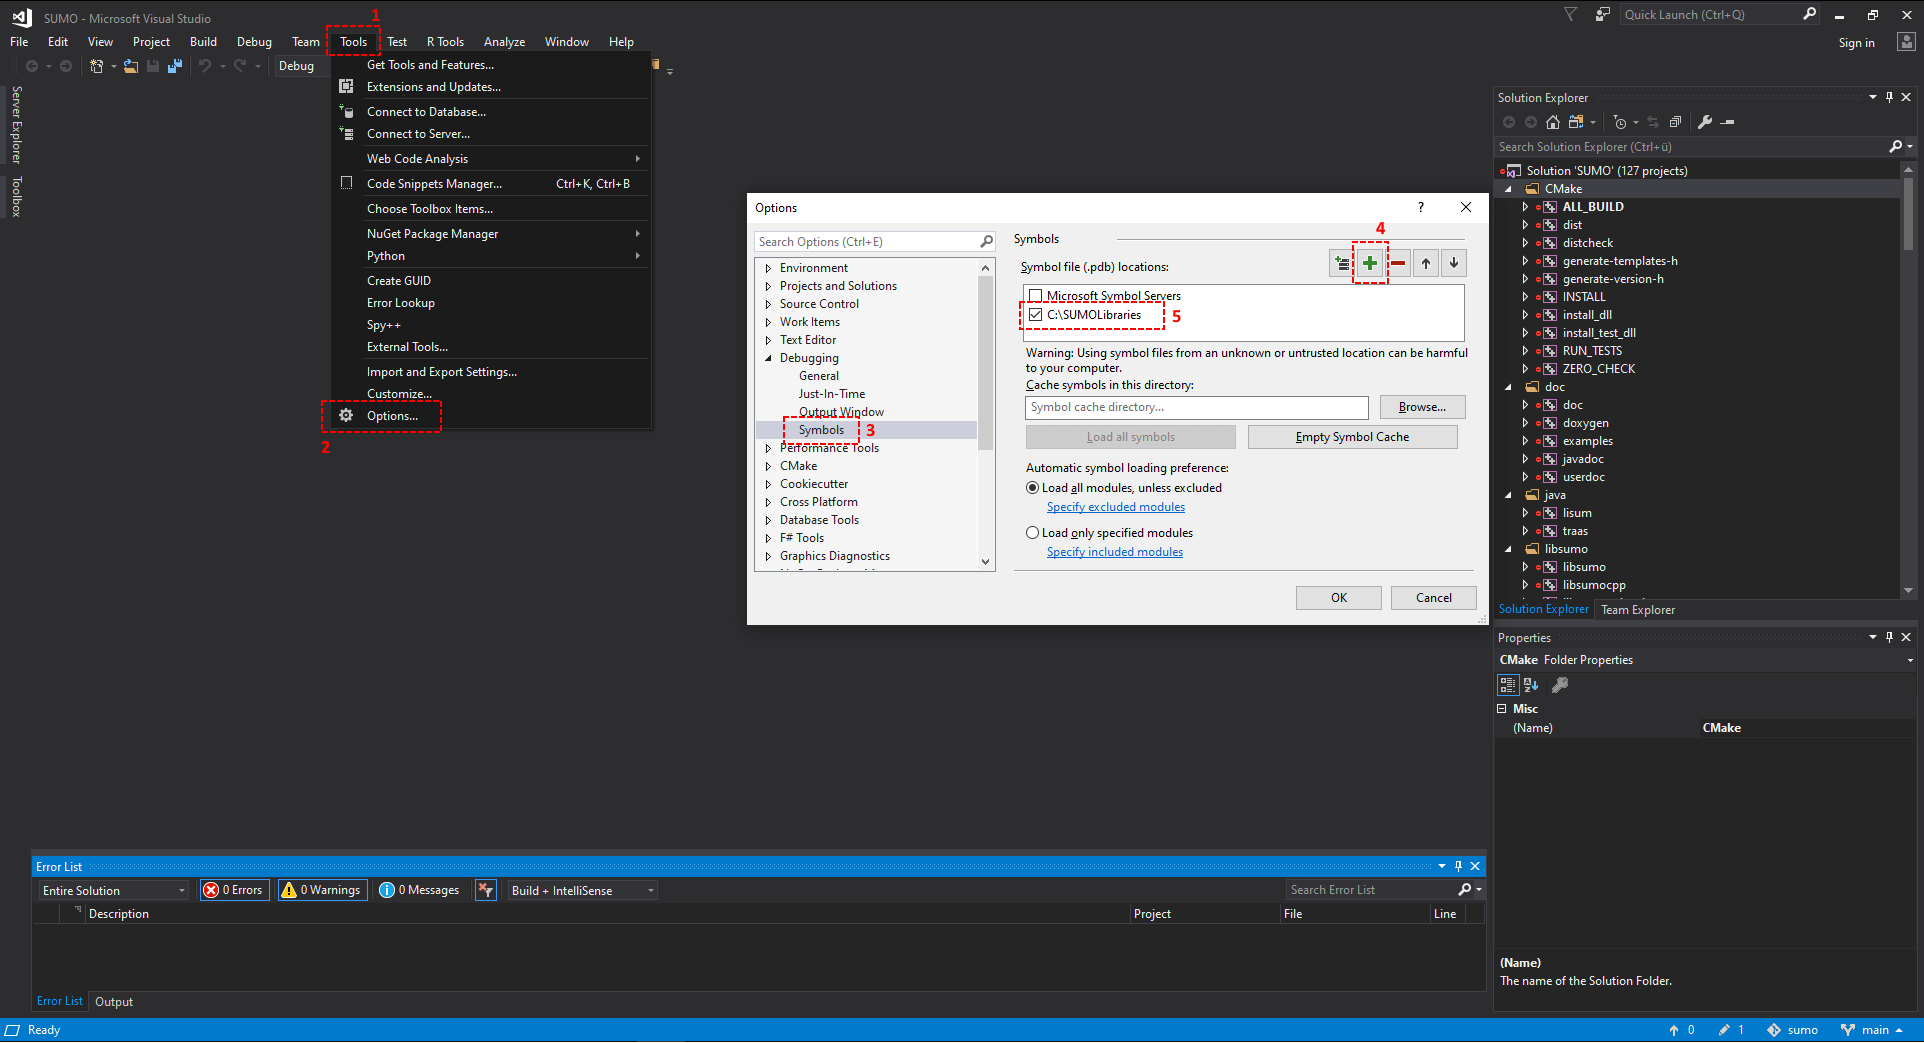
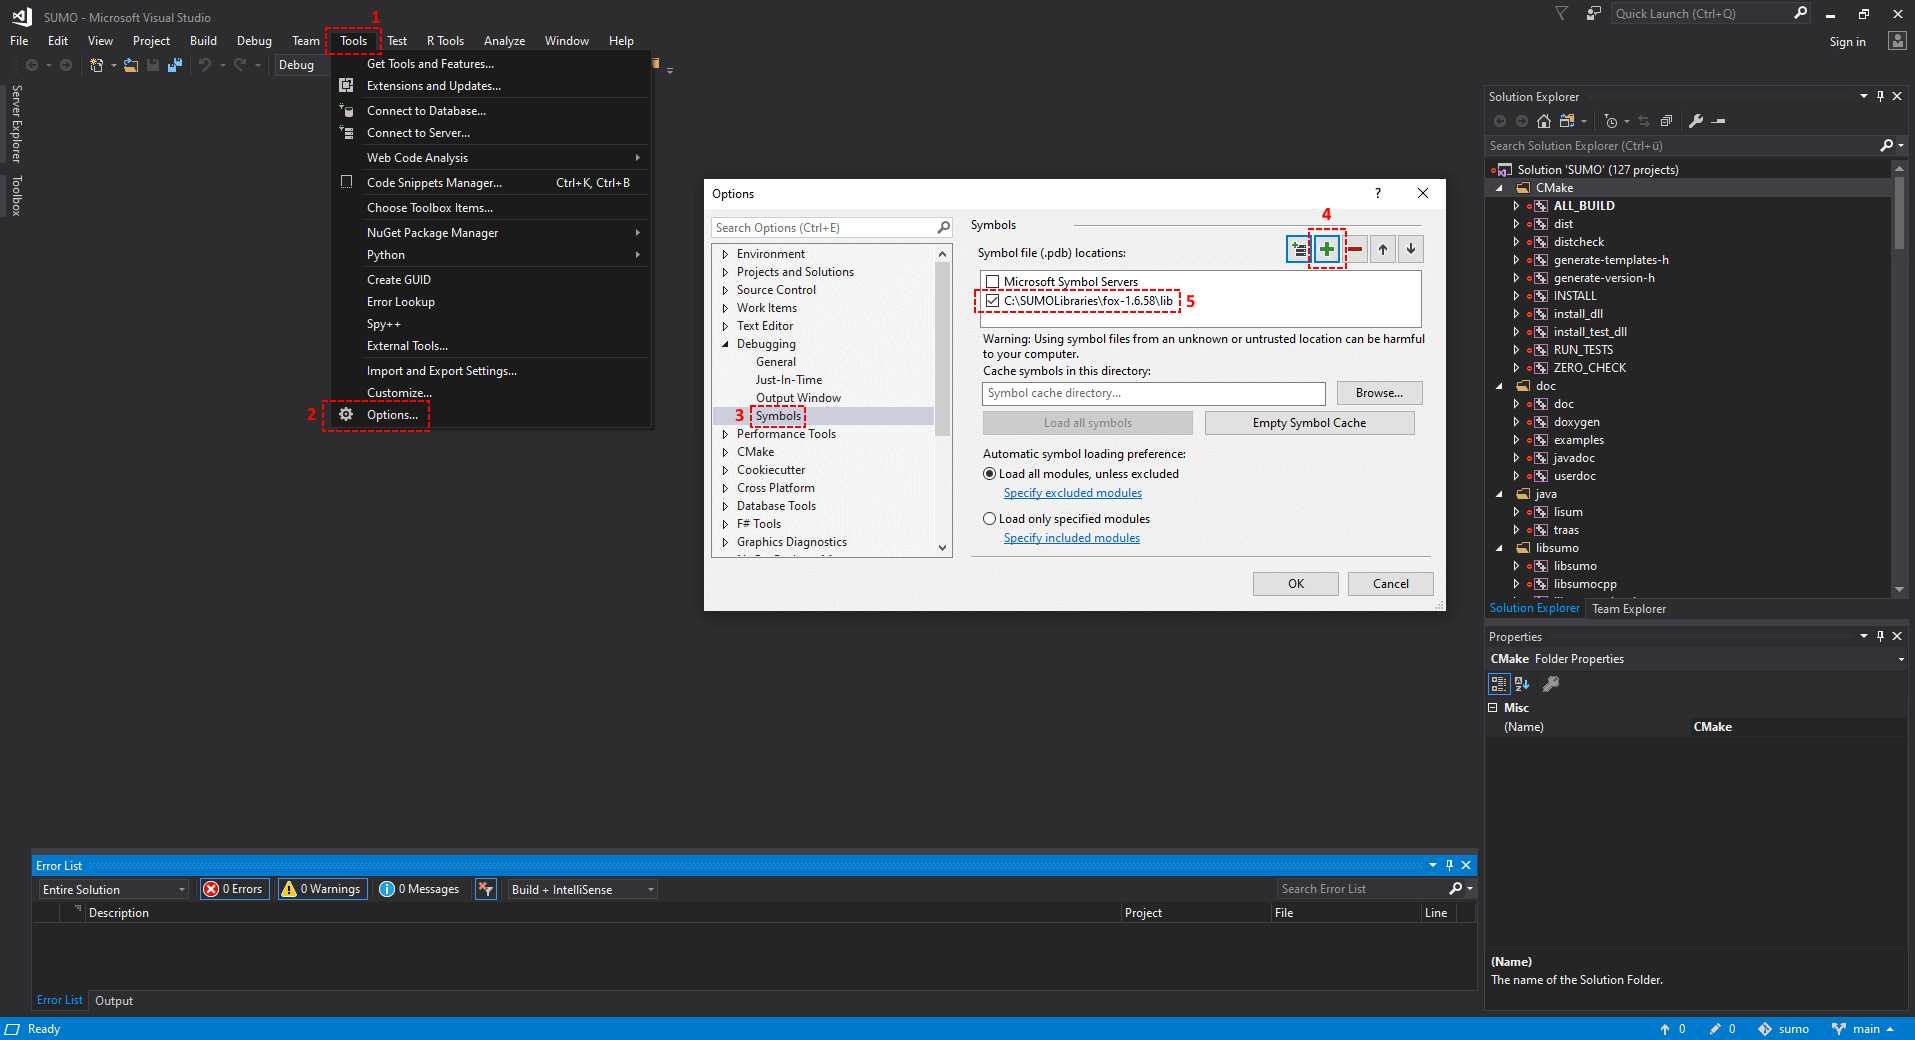
#2 rephrasing text about debugging symbols

diff --git a/docs/web/docs/Developer/Debugging.md b/docs/web/docs/Developer/Debugging.md
@@ -91,6 +91,7 @@ corresponding macro is activated).
 
 ## Debugging external libraries
 
-Debugging symbols (`.pdb` files) are available for some of the external libraries included in [SUMOLibraries](https://github.com/DLR-TS/SUMOLibraries). To use them in Visual Studio, simply add the path to SUMOLibraries to the "Symbol file locations" in the Options. Do so by going to *Tools* > *Options...* > *Debugging* > *Symbols* and adding your SUMOLibraries path as a new location (see image below).
+Debugging symbols (`.pdb` files) are available **for some** of the external libraries included in [SUMOLibraries](https://github.com/DLR-TS/SUMOLibraries). To use them in Visual Studio, simply add the path of the desired symbol to the "Symbol file locations" in the Options menu. Do so by going to *Tools* > *Options...* > *Debugging* > *Symbols* and adding the path to the `.pdb` file of the desired external library as a new location (see the example image below). The `.pdb` files are usually located in the **lib** or **bin** directory, for each library.
 
-![](../images/ExternalDebuggingSymbols.png)
+![](../images/ExternalDebuggingSymbols.png)<br>
+*Example: Adding the FOX debugging symbol*
